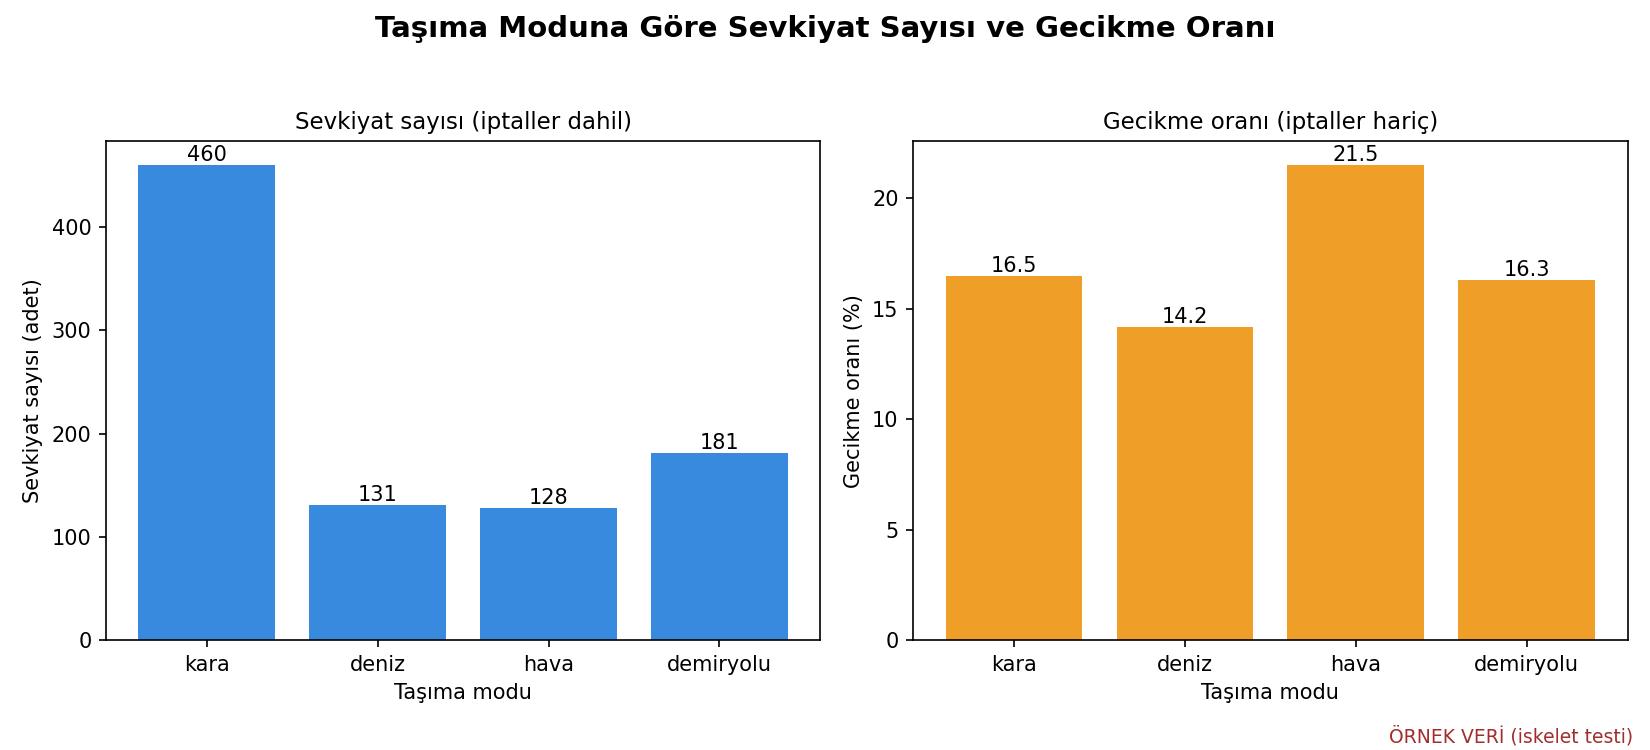
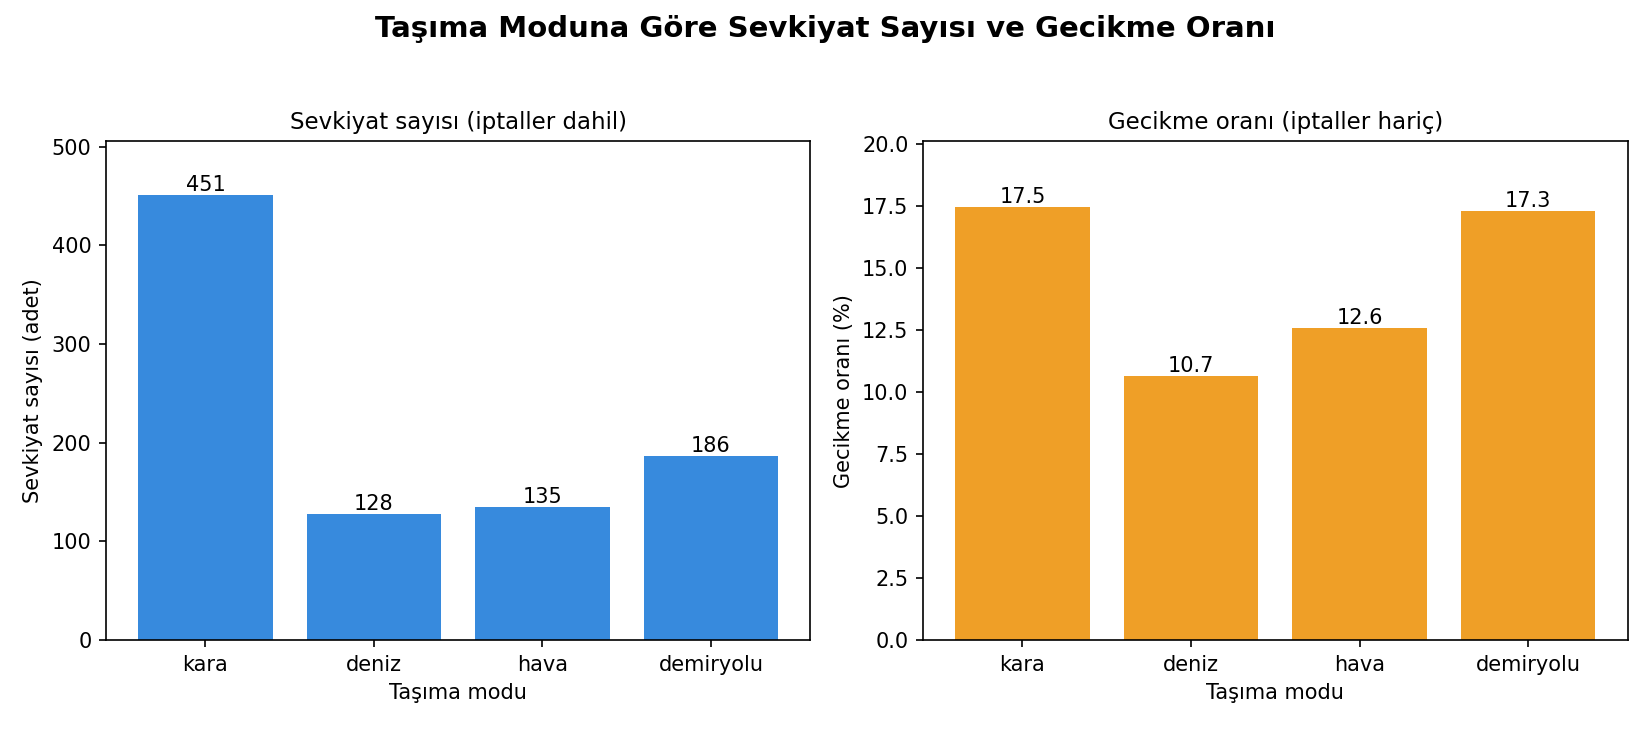
FE: gerçek veriyle 3 grafik, sayılar analiz-g2.md ile doğrulandı (#48)

diff --git a/src/gorsel_g2.py b/src/gorsel_g2.py
@@ -115,6 +115,8 @@ def grafik_mod_kirilimi(df, ornek):
     sol.set_title("Sevkiyat sayısı (iptaller dahil)", fontsize=11)
     sag.bar(MODLAR, oran, color=TURUNCU)
     sag.bar_label(sag.containers[0], fmt="%.1f")
+    sol.set_ylim(0, adet.max() * 1.12)
+    sag.set_ylim(0, oran.max() * 1.15)
     sag.set_xlabel("Taşıma modu")
     sag.set_ylabel("Gecikme oranı (%)")
     sag.set_title("Gecikme oranı (iptaller hariç)", fontsize=11)
@@ -140,13 +142,30 @@ def grafik_dagilim(df, ornek):
     fig.savefig(CIKTI / "teslimat_suresi_dagilimi.png", dpi=150)
     plt.close(fig)
 
-
+def ozet_yazdir(df):
+    """Grafiklerde çizilen sayıları yazdırır; docs/analiz-g2.md ile karşılaştırmak için."""
+    h = haftalik_ozet(df)
+    print("\n[Grafik 1] Haftalık özet (ISO haftası):")
+    print(h[["hafta", "gun", "sevkiyat", "ciro"]].to_string(index=False))
+    adet = df.groupby("tasima_modu").size().reindex(MODLAR, fill_value=0)
+    basarili = df[df["durum"] != "iptal"]
+    toplam = basarili.groupby("tasima_modu").size().reindex(MODLAR, fill_value=0)
+    geciken = basarili[basarili["durum"] == "gecikmeli"].groupby("tasima_modu").size()
+    geciken = geciken.reindex(MODLAR, fill_value=0)
+    print("\n[Grafik 2] Mod bazında sevkiyat sayısı (iptaller dahil) ve gecikme oranı:")
+    for m in MODLAR:
+        oran = geciken[m] / toplam[m] * 100 if toplam[m] else float("nan")
+        print(f"  {m}: {adet[m]} adet, gecikme oranı %{oran:.1f}")
+    sure = basarili["teslim_suresi_saat"].dropna()
+    print(f"\n[Grafik 3] Teslim süresi: {len(sure)} sevkiyat, ortalama {sure.mean():.1f} saat")
+    print(f"\nToplam: {len(df)} sevkiyat, ciro {df['ucret_tl'].sum():,.2f} TL")
 def main():
     CIKTI.mkdir(exist_ok=True)
     df, ornek = veri_yukle()
     grafik_zaman_serisi(df, ornek)
     grafik_mod_kirilimi(df, ornek)
     grafik_dagilim(df, ornek)
+    ozet_yazdir(df)
     kaynak = "ÖRNEK veri" if ornek else "gerçek veri"
     print(f"3 grafik yazıldı ({kaynak}, {len(df)} satır): {CIKTI}")
 
